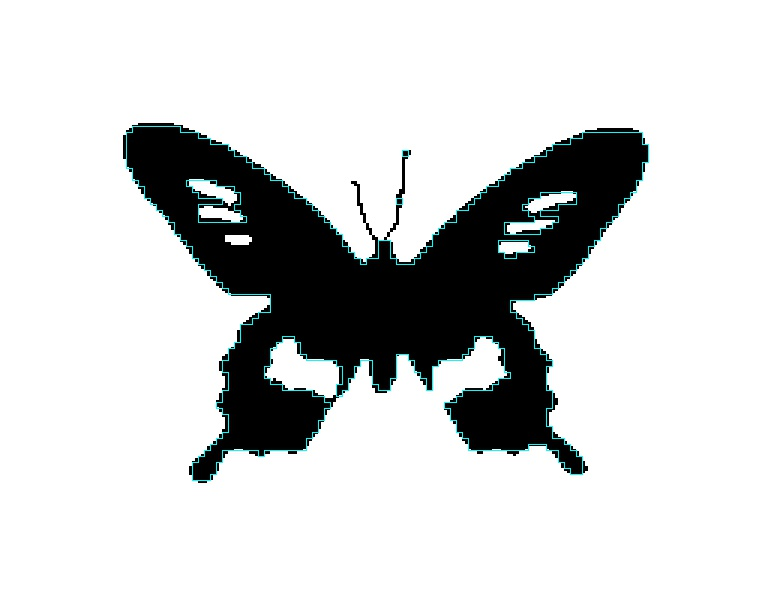
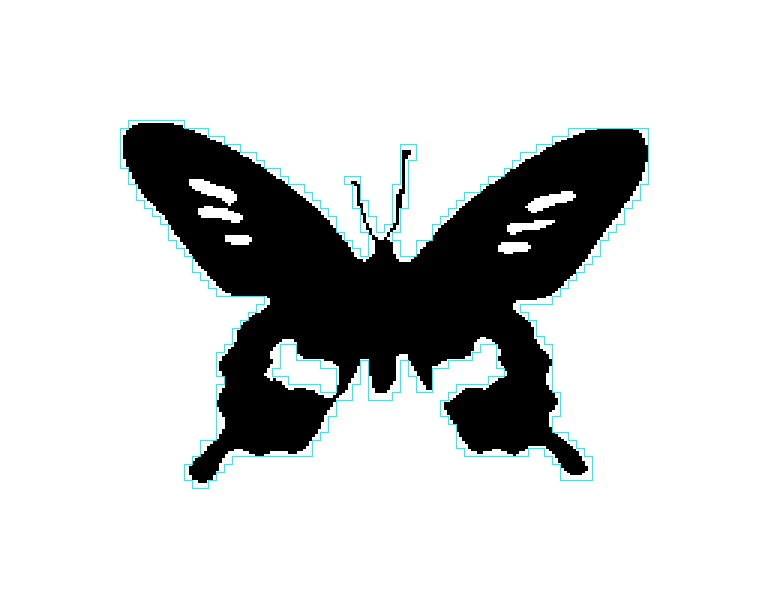
improvements

diff --git a/Arvinder/startProject/opencv_test.cpp b/Arvinder/startProject/opencv_test.cpp
@@ -23,9 +23,9 @@
 
 using namespace std;
 
-#define INNER 1
-
-
+#define INNER 0
+#define GRID_SIZE 8
+#define IMPROVED 1
 
 void show_image(cv::Mat &image){
 
@@ -69,6 +69,48 @@ bool are_all_pixels_white(cv::Mat &image){
         // std::cout<<std::endl;
     }
     // return true;
+    if(INNER==1)
+        return false;
+    else
+        return true;
+}
+
+bool are_all_pixels_white_improved(cv::Mat &image, int start_i, int start_j){
+    // show_image(image);
+    // show_dims(image);
+    start_i*=GRID_SIZE;
+    start_j*=GRID_SIZE;
+    // cout<<"-----> "<<start_i<<" "<<start_j<<endl;
+    // cout<<"***********************************"<<endl;
+    // for(int i=start_i;i<start_i+GRID_SIZE and i<image.rows;i++){
+    //     for(int j=start_j;j<start_j+GRID_SIZE and i<image.cols;j++){
+    //         cv::Scalar pixel = image.at<uchar>(i, j);
+    //         // std::cout<<"---> "<<pixel.val[0]<<std::endl;
+    //         int intensity = pixel.val[0];
+    //         int val = (intensity==255?0:1);
+    //         cout<<val;
+    //     }
+    //     cout<<endl;
+    // }
+    // cout<<"***********************************"<<endl;
+    for(int i=start_i;i<start_i+GRID_SIZE and i<image.rows;i++){
+        for(int j=start_j;j<start_j+GRID_SIZE and i<image.cols;j++){
+            cv::Scalar pixel = image.at<uchar>(i, j);
+            // std::cout<<"---> "<<pixel.val[0]<<std::endl;
+            int intensity = pixel.val[0];
+            int val = (intensity==255?0:1);
+            if(INNER==1){
+                if(val==0)
+                    return true;
+            }
+            else{
+                if(val==1)
+                    return false;
+            }
+            // cout<<val;
+        }
+        // cout<<endl;
+    }
     if(INNER==1)
         return false;
     else
@@ -125,8 +167,6 @@ int main(){
 
     // 10 test images => binary
 
-    int GRID_SIZE = 6;
-
     int height = image.size().height;
     int width = image.size().width;
 
@@ -172,8 +212,8 @@ int main(){
             // cv::waitKey(0);
         }
     }
-
-    // show_image(binaryImage);
+    // cout<<"hreeeeeee"<<endl;
+    // show_image(binaryImage_copy);
 
     std::vector<std::vector<bool>> is_pixel_present(BLOCK_HEIGHT,std::vector<bool>(BLOCK_WIDTH));
 
@@ -185,7 +225,7 @@ int main(){
             // cv::waitKey(0);
             // std::cout<<" ### "<<i<<" "<<j<<std::endl;
             if(INNER==1){
-                if(are_all_pixels_white(block_matrix[i][j])){
+                if((IMPROVED==1?are_all_pixels_white_improved(binaryImage_copy,i,j):are_all_pixels_white(block_matrix[i][j]))){
                     is_pixel_present[i][j] = 0;
                 }
                 else{
@@ -195,7 +235,7 @@ int main(){
             }
             else{
 
-                if(are_all_pixels_white(block_matrix[i][j])){
+                if((IMPROVED==1?are_all_pixels_white_improved(binaryImage_copy,i,j):are_all_pixels_white(block_matrix[i][j]))){
                     is_pixel_present[i][j] = 0;
                 }
                 else{
@@ -231,13 +271,13 @@ int main(){
     };
 
     // cout<<"----------------------$$$$$$$$$$$$$$$$$$$$$$$$$$$$$$$$$$$$$$$$"<<endl;
-    for(int i=GRID_SIZE;i<height-GRID_SIZE;i+=GRID_SIZE){
-        for(int j=GRID_SIZE;j<width-GRID_SIZE;j+=GRID_SIZE){
-            // cout<<":::::::::::::::::::+=======>>> "<<i<<" "<<j<<endl;
-            cout<<find_type_C(i,j);
-        }
-        cout<<endl;
-    }
+    // for(int i=GRID_SIZE;i<height-GRID_SIZE;i+=GRID_SIZE){
+    //     for(int j=GRID_SIZE;j<width-GRID_SIZE;j+=GRID_SIZE){
+    //         // cout<<":::::::::::::::::::+=======>>> "<<i<<" "<<j<<endl;
+    //         cout<<find_type_C(i,j);
+    //     }
+    //     cout<<endl;
+    // }
     
 
     std::function<std::pair<int,int>(int,int)> find_start_point_OIC = [&](int a, int b){
